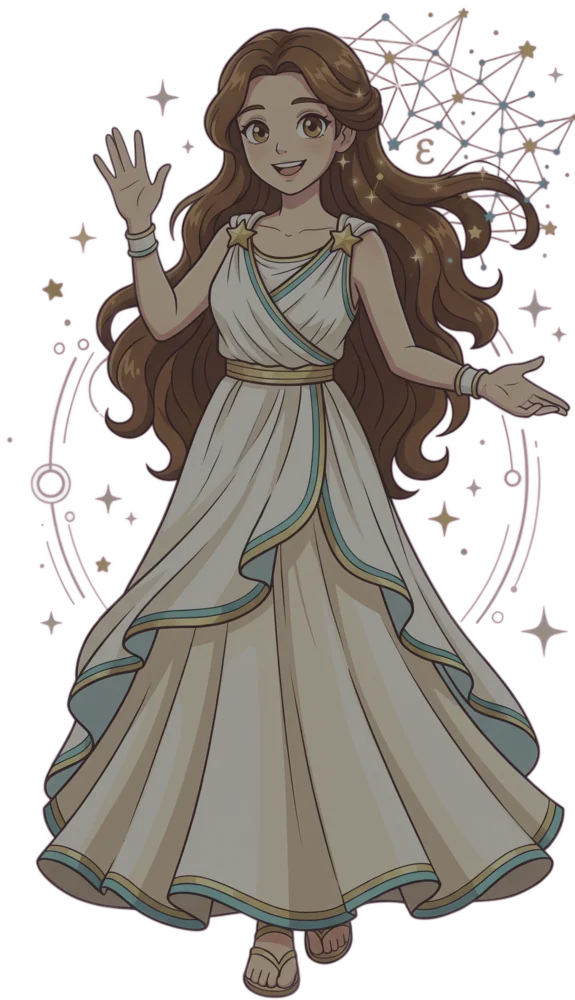
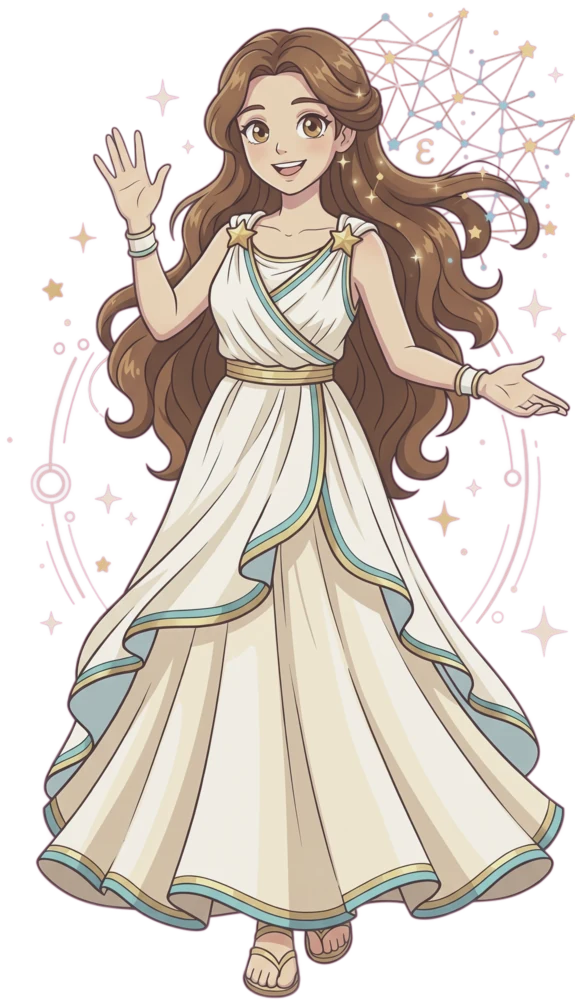
fix: restore the brightness of the welcome picture (source file was darkened)

diff --git a/tests/channels/web/test_welcome.py b/tests/channels/web/test_welcome.py
@@ -121,3 +121,21 @@ def test_welcome_picture_is_the_optimised_avatar_and_not_the_heavy_original():
 
     assert src == "welcome-avatar.webp"
     assert (web.STATIC_DIR / "img" / src).stat().st_size < 400_000  # se carga en cada visita
+
+
+def brightest_channel(path):
+    """El valor más alto (0-255) que alcanza algún píxel visible: un dibujo oscurecido no llega ni a 200."""
+    import pytest
+
+    pil = pytest.importorskip("PIL.Image")
+    import numpy as np
+
+    pixels = np.asarray(pil.open(path).convert("RGBA"))
+    visible = pixels[..., 3] == 255
+    return int(pixels[..., :3].max(axis=-1)[visible].max())
+
+
+def test_welcome_picture_is_not_dimmed():
+    from tests.channels.web.helpers import web
+
+    assert brightest_channel(web.STATIC_DIR / "img" / "welcome-avatar.webp") >= 235
